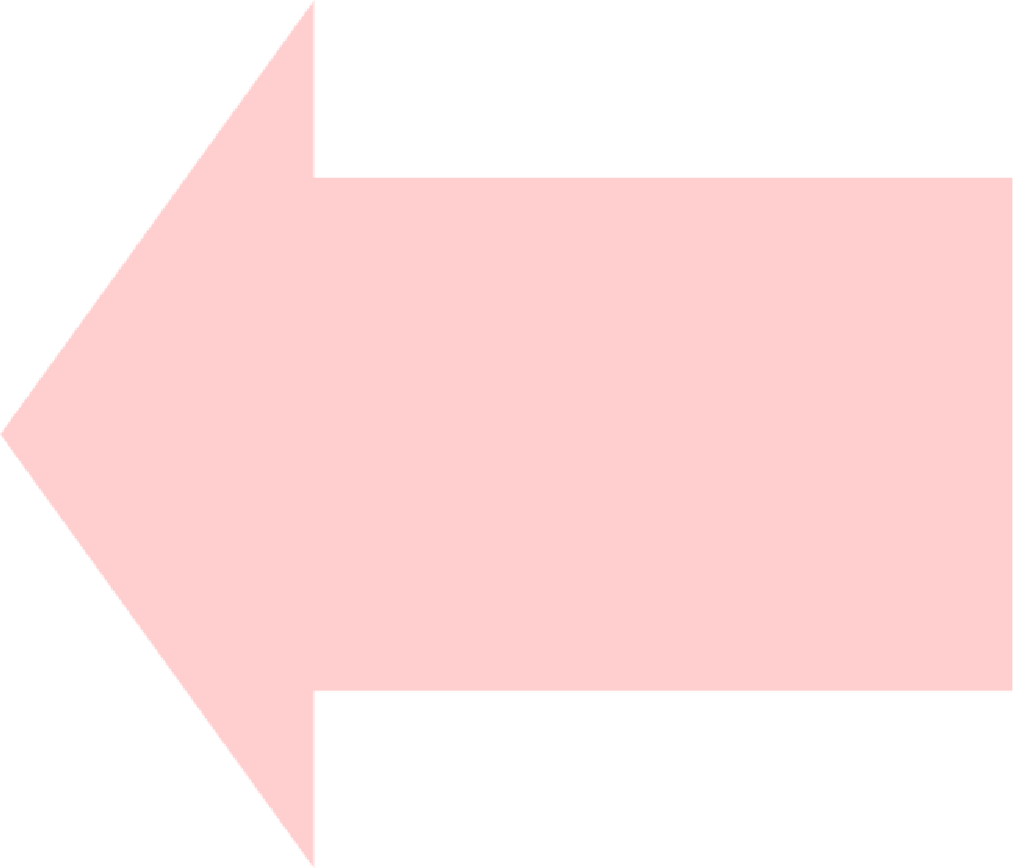
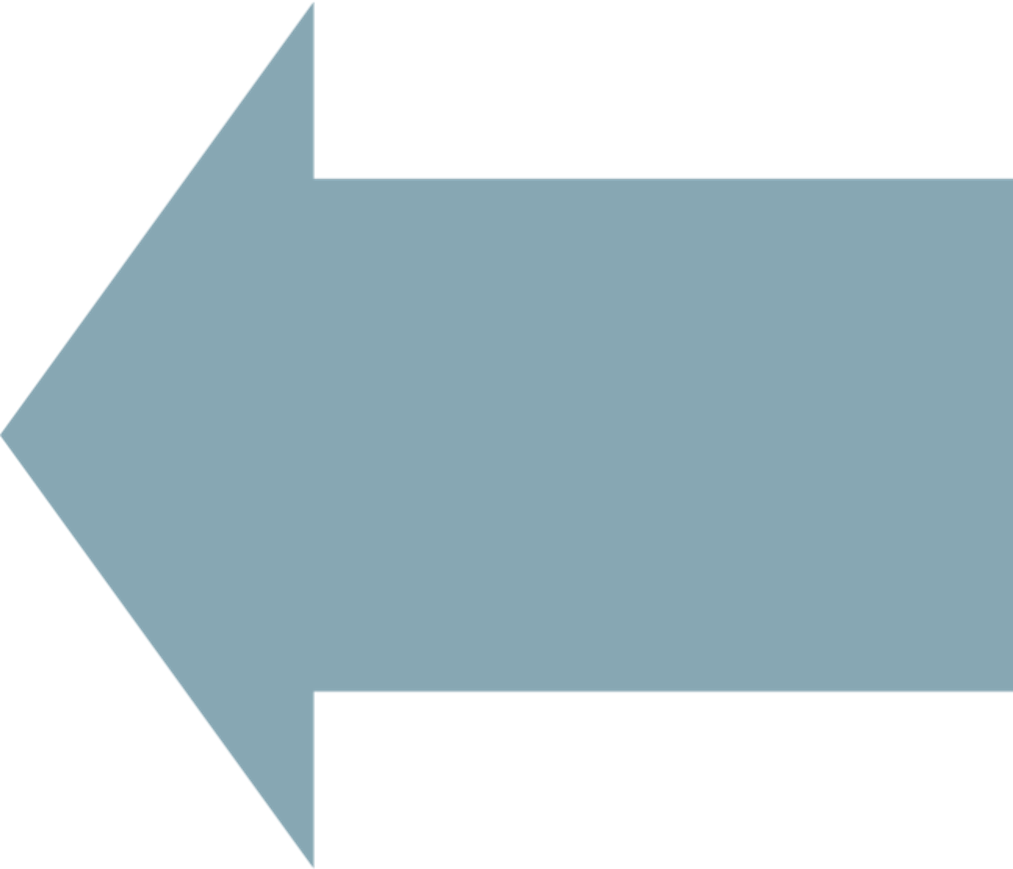
color

diff --git a/1guidebook.html b/1guidebook.html
@@ -19,14 +19,16 @@
 
 <body>
   <div class="hero-image">
-  <div class="hero-text">
-    <h1 id="hero_text">시흥시 목감지구 역사 게임</h1>
+    <div class="hero-text">
+      <h1 id="hero_text">시흥시 목감지구 역사 게임</h1>
+    </div>
   </div>
-</div>
-  <h1>가이드북  &nbsp &nbsp &nbsp &nbsp &nbsp &nbsp <img src="home.png" width=45px onclick="location.href='index.html';"></h1>
+  <h1><img src="home.png" width=45px onclick="location.href='index.html';">&nbsp &nbsp 가이드북  </h1>
   <ol>
   <li><h3>이것이 무엇인가요?</h3>
-  <h4>교육용으로 만든, 실내에서 모바일로 참여할 수 있는 방 탈출, 퀴즈 형식의 게임입니다. 경기도 시흥시 목감지구, 근처의 지역사 교육을 목적으로 만들었습니다. <br>3· 1운동(독립지사 윤동욱 기념비), 조선시대 무덤(이숙번 묘), 고인돌(조남리 지석묘), 물왕 저수지와 관련 있습니다.</h4>
+  <h4>교육용으로 만든, 실내에서 모바일로 참여할 수 있는 방 탈출, 퀴즈 형식의 게임입니다.
+    경기도 시흥시 목감지구, 근처의 지역사 교육을 목적으로 만들었습니다. <br>
+    3· 1운동(독립지사 윤동욱 기념비), 조선시대 무덤(이숙번 묘), 고인돌(조남리 지석묘), 물왕 저수지와 관련 있습니다.</h4>
 
   <li><h3>얼마나 걸리나요?</h3>
   <h4>10~15분 정도 걸립니다.</h4></li>
@@ -51,12 +53,11 @@
     location.href='2desc.html';
     ">
 
-
-  <p style="margin-top:45px;" class="addes">
-  이 프로그램은 오일팔닷컴의 제작 방법을 바탕으로, 서강대학교 '교육연구법' 과제의 일환으로 김서인이 제작했습니다.<br>
-
-  오일팔닷컴의 제작 방법: <a href="https://sites.google.com/view/51840escape/%EC%A0%9C%EC%9E%91-%EB%B0%A9%EB%B2%95-%EC%86%8C%EA%B0%9C?authuser=0" target="_blank" title="오일팔닷컴의 제작 방법 소개">오일팔닷컴의 제작 방법 소개 </a><br>
-  문의사항은 다음 메일로 연락주세요: tjdls111@naver.com (김서인)</p>
+  <p class="addes">
+  이 프로그램은 오일팔닷컴의 제작 방법을 바탕으로, 2020학년도 2학기 서강대학교 '교육연구법' 과제의 일환으로 김서인이 제작했습니다.<br>
+  오일팔닷컴의 제작 방법: <a href="https://sites.google.com/view/51840escape/%EC%A0%9C%EC%9E%91-%EB%B0%A9%EB%B2%95-%EC%86%8C%EA%B0%9C?authuser=0" class="link" target="_blank" title="오일팔닷컴의 제작 방법 소개">오일팔닷컴의 제작 방법 소개 </a>
+  문의사항은 다음 메일로 연락주세요: tjdls111@naver.com (김서인)
+  </p>
 
 
 </body>

diff --git a/index.html b/index.html
@@ -40,10 +40,10 @@
    location.href='1guidebook.html'">
 
   <p style="margin-top:40px;" class="addes">- 만든 날: 2020년 12월<br>
-  - 만든 이: 김서인 (서강대학교 사학과 학부생, tjdls111@naver.com) 과제의 일환으로 제작하였습니다.<br></p>
-  <p style="margin-top:45px;" class="addes">- 사진은 모두 출처를 표기했고, 출처 표기하지 않은 사진은 김서인이 촬영했습니다.<br>
+  - 만든 이: 김서인 (서강대학교 사학과 학부생, tjdls111@naver.com) 과제의 일환으로 제작하였습니다.<br>
+  - 사진은 모두 출처를 표기했고, 출처 표기하지 않은 사진은 김서인이 촬영했습니다.<br>
   - 이미지/캐릭터: 미리캔버스<br>
-  - 오일팔닷컴의 제작 방법 소개를 참고했습니다. <a href="https://sites.google.com/view/51840escape/%EC%A0%9C%EC%9E%91-%EB%B0%A9%EB%B2%95-%EC%86%8C%EA%B0%9C?authuser=0" target="_blank" title="오일팔닷컴의 제작 방법 소개">링크 </a></p>
+  - 오일팔닷컴의 제작 방법 소개를 참고했습니다. <a class="link" href="https://sites.google.com/view/51840escape/%EC%A0%9C%EC%9E%91-%EB%B0%A9%EB%B2%95-%EC%86%8C%EA%B0%9C?authuser=0" target="_blank" title="오일팔닷컴의 제작 방법 소개">링크 </a></p>
 
 
 </body>

diff --git a/3desc.html b/3desc.html
@@ -29,9 +29,9 @@
       <h1 id="hero_text">시흥시 목감지구 역사 게임</h1>
     </div>
   </div>
-    <h1>참여방법 설명  &nbsp &nbsp &nbsp &nbsp &nbsp &nbsp <img src="home.png" width=45px onclick="location.href='index.html';"> &nbsp &nbsp <img src="back.png" width=45px onclick="location.href='2desc.html';"></h1>
+    <h1> <img src="back.png" width=45px onclick="location.href='2desc.html';">&nbsp<img src="home.png" width=45px onclick="location.href='index.html';"> &nbsp &nbsp참여방법 설명 </h1>
     <script>
-      document.write('빈칸에 답을 입력하고 정답 확인하기 버튼를 누르면 됩니다.<br>정답이 아니면, 다음 장으로 넘어가지 않습니다.');
+      document.write('빈칸에 답을 입력하고 정답 확인하기 버튼을 누르면 됩니다.<br>정답이 아니면, 다음 장으로 넘어가지 않습니다.');
     </script>
     <div class="problem">
       연습 문제: 12월은 어떤 계절일까요?<br>

diff --git a/style.css b/style.css
@@ -1,26 +1,34 @@
 h1{
   font-size: 50px;
-  text-align:center;
+  text-align: left;
   padding: 5px;
-  background-color: cornflowerblue;
+  margin-top: 5px;
+  color: black;
+  border-bottom: medium black double;
+  border-top: medium black double;
 }
 
 .addes{
+  display: block;
+  padding-bottom: 15px;
   color:white;
-  padding:20px;
-  background-color: dimgray;
+  background-color: #766161;
 }
 
 .problem{
   font-size:25px;
   padding: 10px;
   margin:5px;
-  background-color: lightskyblue;
+  background-color:#e1f1dd;
+  border: medium black double;
 }
 
 body{font-family:'Poor Story', serif;}
 body{font-size:20px;}
 
+body{
+  background-image:url('background.png');
+}
 body, html {
     height: 100%;
 }
@@ -46,3 +54,11 @@ body, html {
   transform: translate(-50%, -50%);
   color: white;
 }
+
+  .note_background{
+    background-image:url('note.png');
+  }
+
+  .link{
+    color:#87a7b3
+  }

diff --git a/2desc.html b/2desc.html
@@ -23,7 +23,7 @@
     <h1 id="hero_text">시흥시 목감지구 역사 게임</h1>
   </div>
 </div>
-  <h1>참여방법 설명 &nbsp &nbsp &nbsp &nbsp &nbsp &nbsp <img src="home.png" width=45px onclick="location.href='index.html';"> &nbsp &nbsp <img src="back.png" width=45px onclick="location.href='index.html';"> </h1>
+  <h1><img src="back.png" width=45px onclick="location.href='index.html';">&nbsp<img src="home.png" width=45px onclick="location.href='index.html';"> &nbsp &nbsp 참여방법 설명  </h1>
   <p>원활한 게임 참여를 위해서 방법을 설명해드리겠습니다.<br>아래 버튼이 보이시죠?<br>이런 버튼이 나오면 클릭하면 됩니다.</p>
   <input type="button" value="알겠습니다" onclick="
     location.href='3desc.html';
